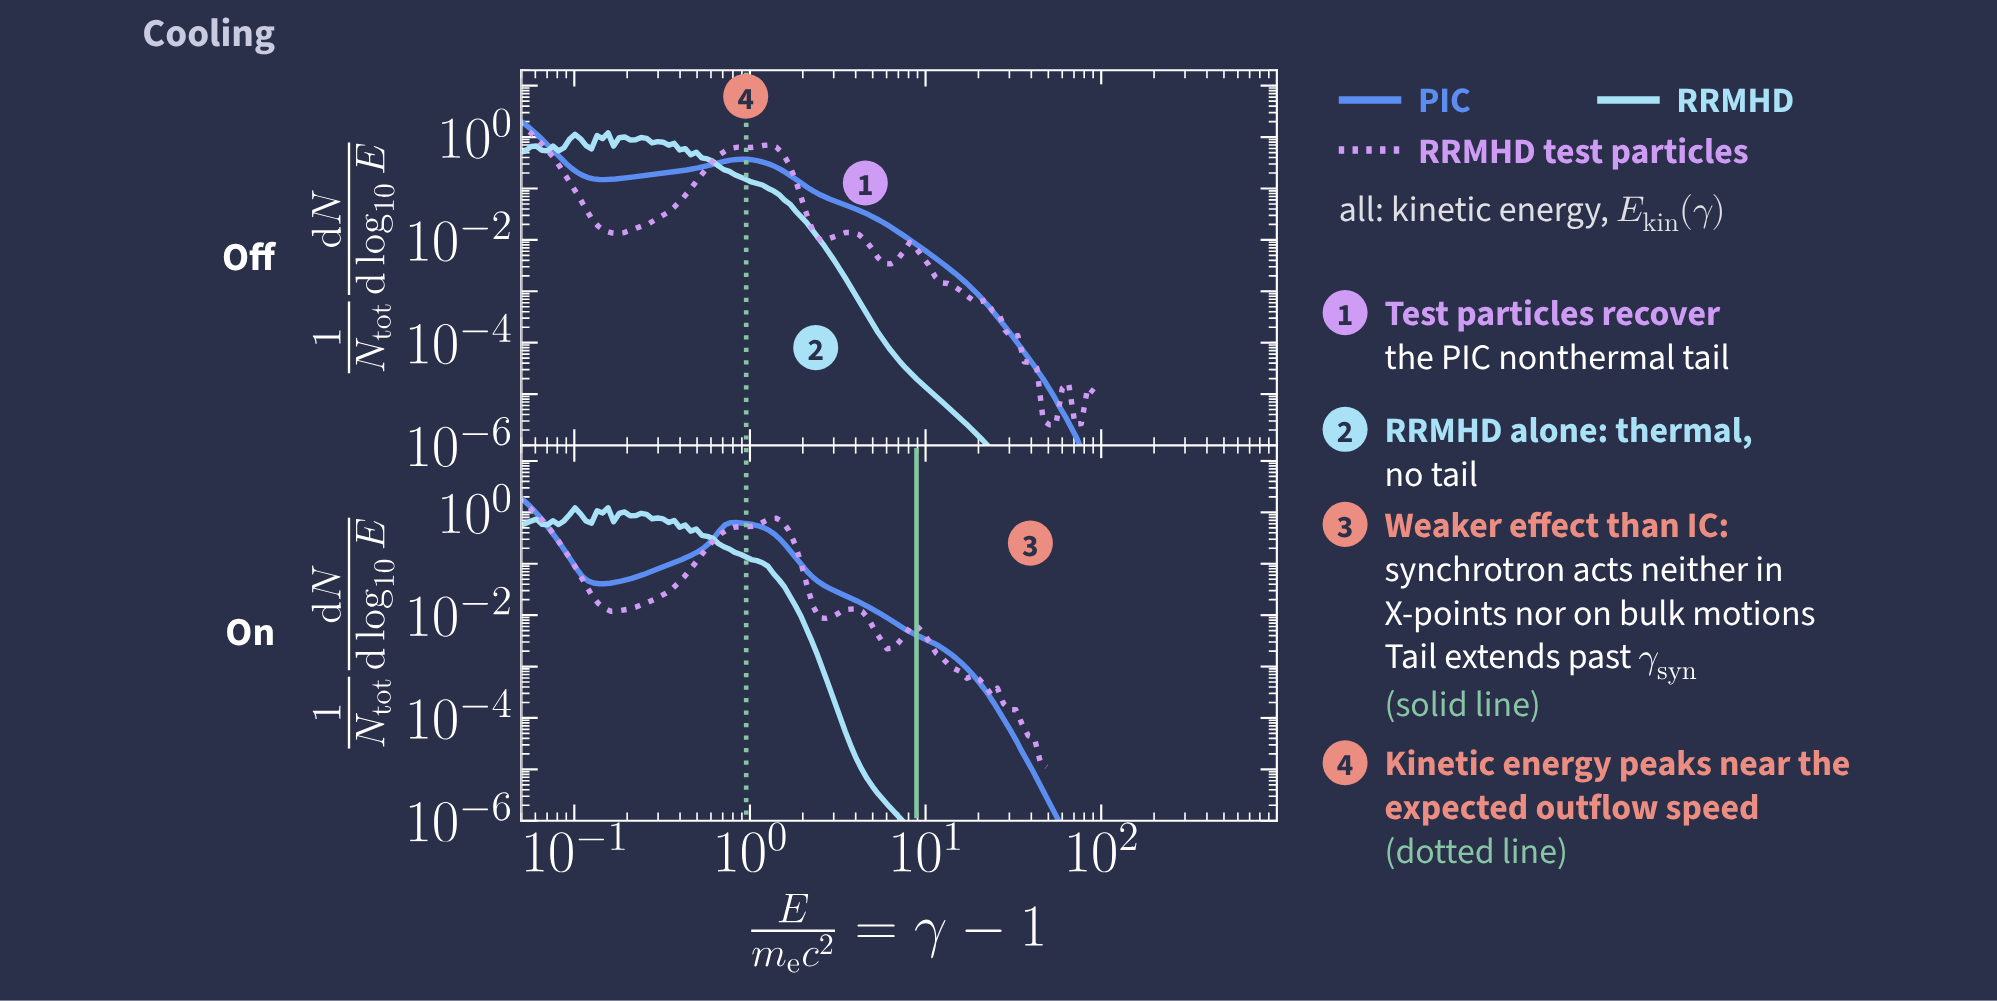
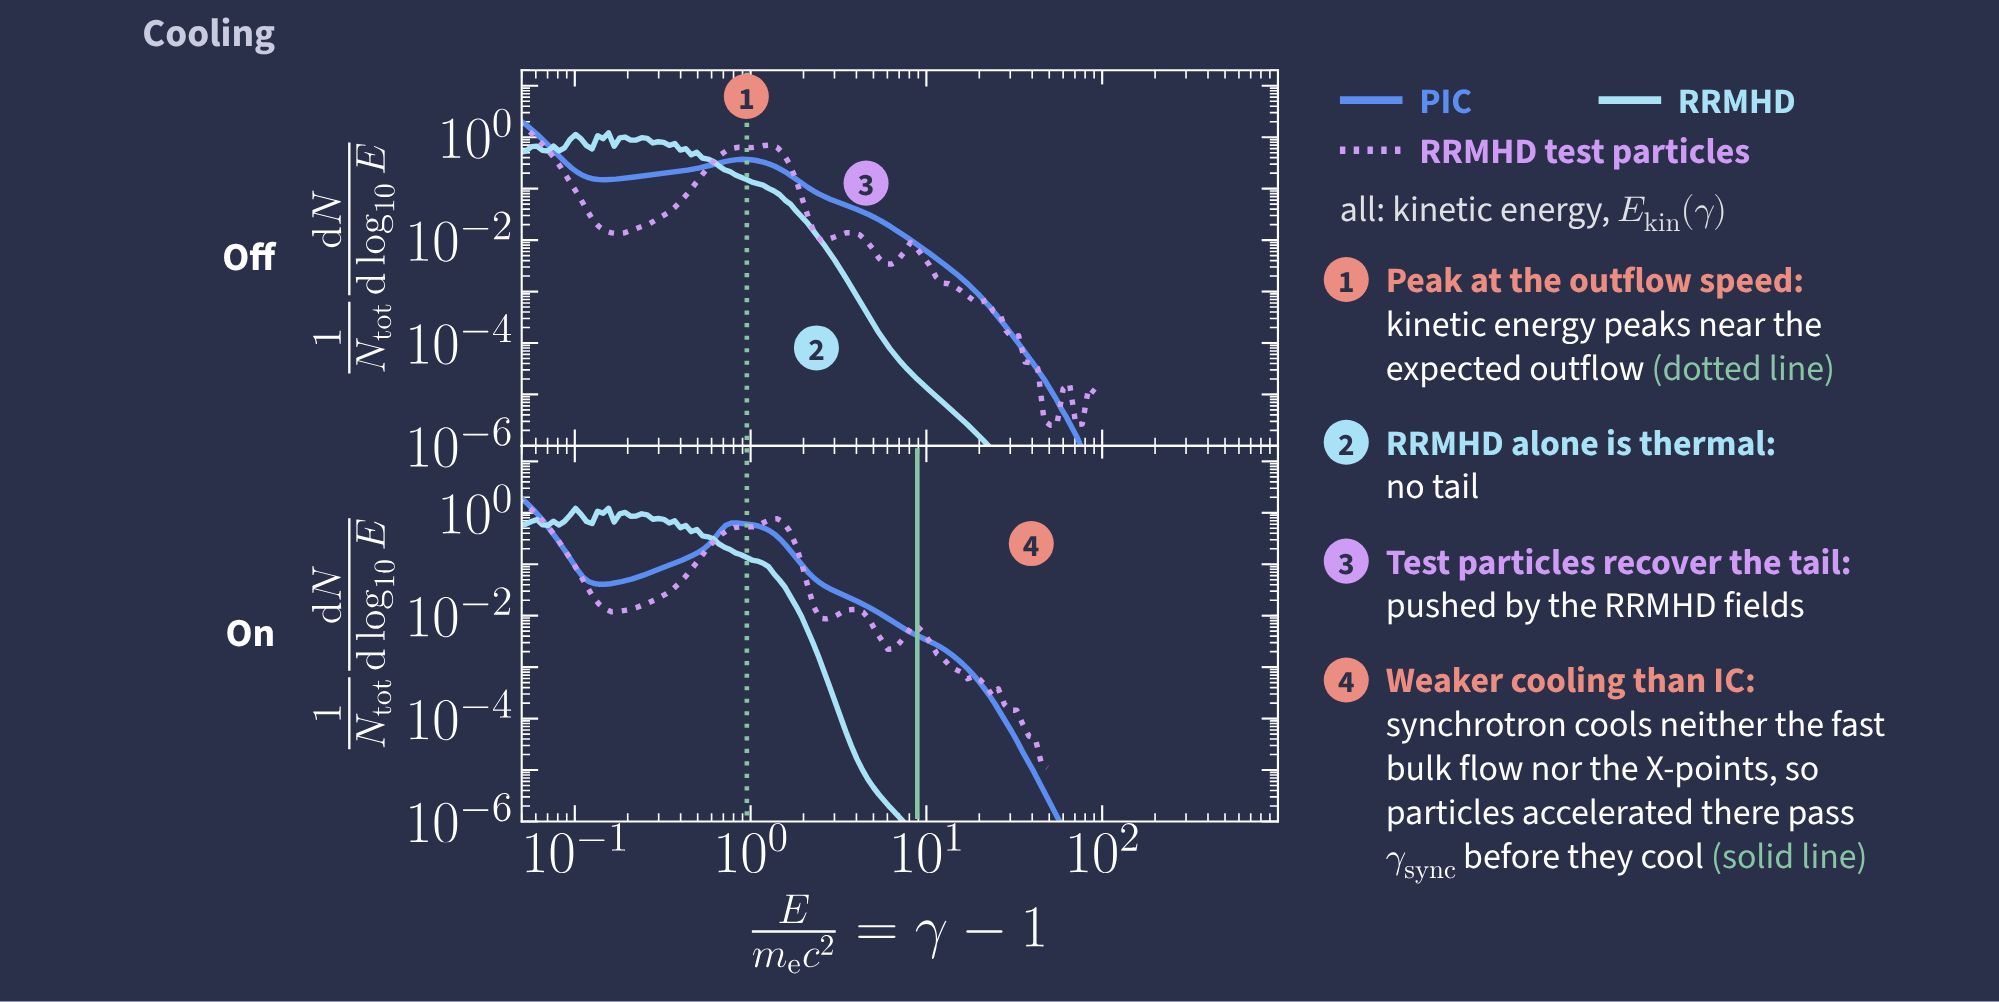
Restyle figure annotations, add synchrotron equation tiles, rename Paper II

diff --git a/making-reconnection-cooler.md b/making-reconnection-cooler.md
@@ -196,16 +196,32 @@ show_tile: false
 	<div data-level="astronomer" data-default><p>In Paper II, led by Ma&euml;lle Magnan, we extend our model to <strong>synchrotron cooling</strong>, the radiation from electrons gyrating relativistically around magnetic field lines. As for IC, balancing the reconnection electric field against synchrotron losses defines a characteristic Lorentz factor \(\gamma_{\rm sync}\) that sets the cooling strength. The addition of <strong>test particles</strong>, which are pushed by the RRMHD fields without feeding back on them, is able to capture the kinetic non-thermal tail.</p></div>
 	<div data-level="plasma" hidden><p>In Paper II, led by Ma&euml;lle Magnan, we extend our model to <strong>synchrotron cooling</strong>. Balancing the reconnection electric field against synchrotron losses defines \(\gamma_{\rm sync}\), analogous to \(\gamma_{\rm rad}\). The addition of <strong>test particles</strong> pushed by the RRMHD fields is able to capture the kinetic non-thermal tail.</p></div>
 </div>
+<div class="output-cards" data-show-for="plasma" hidden>
+<div class="output-card">
+	<span class="badge fa-braille"></span>
+	<span class="output-kind">Particles (PIC)</span>
+	<h3>A synchrotron drag force</h3>
+	<div class="equation"><img src="{{ site.baseurl }}/assets/images/plasma/mrc-eq-sync-pic.svg" style="width: 18.0em" alt="F_sync = m_e c squared beta_rec sigma_0 over Delta, times 1 over gamma_sync squared, times (kappa_R minus gamma squared chi_R squared beta)" /></div>
+	<p>\(\boldsymbol{\kappa}_R\) and \(\chi_R^2\) depend on the <strong>fields felt by the particle</strong>: the drag vanishes for an \(\mathbf{E}\times\mathbf{B}\) drift and in the X-points, where \(B \approx 0\).</p>
+</div>
+<div class="output-card">
+	<span class="badge fa-tint"></span>
+	<span class="output-kind">Fluid (RRMHD)</span>
+	<h3>An energy and momentum sink</h3>
+	<div class="equation"><img src="{{ site.baseurl }}/assets/images/plasma/mrc-eq-sync-mhd.svg" style="width: 15.03em" alt="S^0 = minus two thirds rho c squared beta_rec sigma_0 over Delta, times (Theta over Theta_sync) squared, times B-prime squared over B_0 squared; S^i = S^0 beta_Gamma^i" /></div>
+	<p>The sink depends only on the temperature and the magnetic field in the fluid frame, \(B'\). Unlike IC, it has <strong>no bulk-motion term</strong>, so synchrotron cools the plasma without braking the bulk flow.</p>
+</div>
+</div>
 <figure class="paper-figure plain" data-show-for="student" hidden style="width: 73.86%; max-width: 38.4em">
 	<img src="{{ site.baseurl }}/assets/images/plasma/mrc-student-sync.png" alt="Kinetic energy distribution of the plasma for synchrotron cooling, with cooling off and on: PIC, MHD, and MHD test particles" />
 	<figcaption>Adapted from Paper II (M. Magnan et al., in prep.).</figcaption>
 </figure>
 <figure class="paper-figure plain" data-show-for="astronomer">
-	<img src="{{ site.baseurl }}/assets/images/plasma/mrc-sync-astronomer.png" alt="Kinetic energy spectra with synchrotron cooling off and on: PIC, RRMHD, and test particles pushed through the RRMHD fields, which recover the PIC nonthermal tail" />
+	<img src="{{ site.baseurl }}/assets/images/plasma/mrc-sync-astronomer.png" alt="Kinetic energy spectra with synchrotron cooling off and on: PIC, RRMHD, and test particles pushed through the RRMHD fields, which recover the PIC non-thermal tail" />
 	<figcaption>Adapted from Paper II (M. Magnan et al., in prep.).</figcaption>
 </figure>
 <figure class="paper-figure plain" data-show-for="plasma" hidden>
-	<img src="{{ site.baseurl }}/assets/images/plasma/mrc-sync-plasma.png" alt="Kinetic energy spectra with synchrotron cooling off and on: PIC, RRMHD, and test particles pushed through the RRMHD fields, which recover the PIC nonthermal tail" />
+	<img src="{{ site.baseurl }}/assets/images/plasma/mrc-sync-plasma.png" alt="Kinetic energy spectra with synchrotron cooling off and on: PIC, RRMHD, and test particles pushed through the RRMHD fields, which recover the PIC non-thermal tail" />
 	<figcaption>Adapted from Paper II (M. Magnan et al., in prep.).</figcaption>
 </figure>
 </div>
@@ -247,7 +263,7 @@ show_tile: false
 				<!-- TODO: replace the Coming soon button with a link when it's out -->
 				<span class="badge numeral">II</span>
 				<span class="output-kind">Paper II &middot; Synchrotron</span>
-				<h3>Making Reconnection Cooler II: A collisionless model for synchrotron relativistic reconnection in relativistic resistive magnetohydrodynamics with test particles</h3>
+				<h3>Making Reconnection Cooler II: A collisionless model for synchrotron reconnection in relativistic resistive magnetohydrodynamics with test particles</h3>
 				<p class="output-meta">M. Magnan, <strong>A. M. Savelli</strong>, B. Ripperda, D. Gro&scaron;elj &amp; A. Levinson</p>
 				<ul class="actions"><li><span class="button small disabled">Coming soon</span></li></ul>
 			</div>

diff --git a/teaching.md b/teaching.md
@@ -64,7 +64,7 @@ If you are interested in working with me, **[please reach out](#get-in-touch){: 
 	<div class="output-card">
 		<span class="badge fa-file-text-o"></span>
 		<span class="output-kind">Maëlle Magnan &middot; Synchrotron</span>
-		<h3>Making Reconnection Cooler II: A collisionless model for synchrotron relativistic reconnection in relativistic resistive magnetohydrodynamics with test particles</h3>
+		<h3>Making Reconnection Cooler II: A collisionless model for synchrotron reconnection in relativistic resistive magnetohydrodynamics with test particles</h3>
 		<p class="output-meta">M. Magnan, <strong>A. M. Savelli</strong>, B. Ripperda, D. Gro&scaron;elj &amp; A. Levinson</p>
 		<ul class="actions"><li><span class="button small disabled">Coming soon</span></li></ul>
 	</div>
